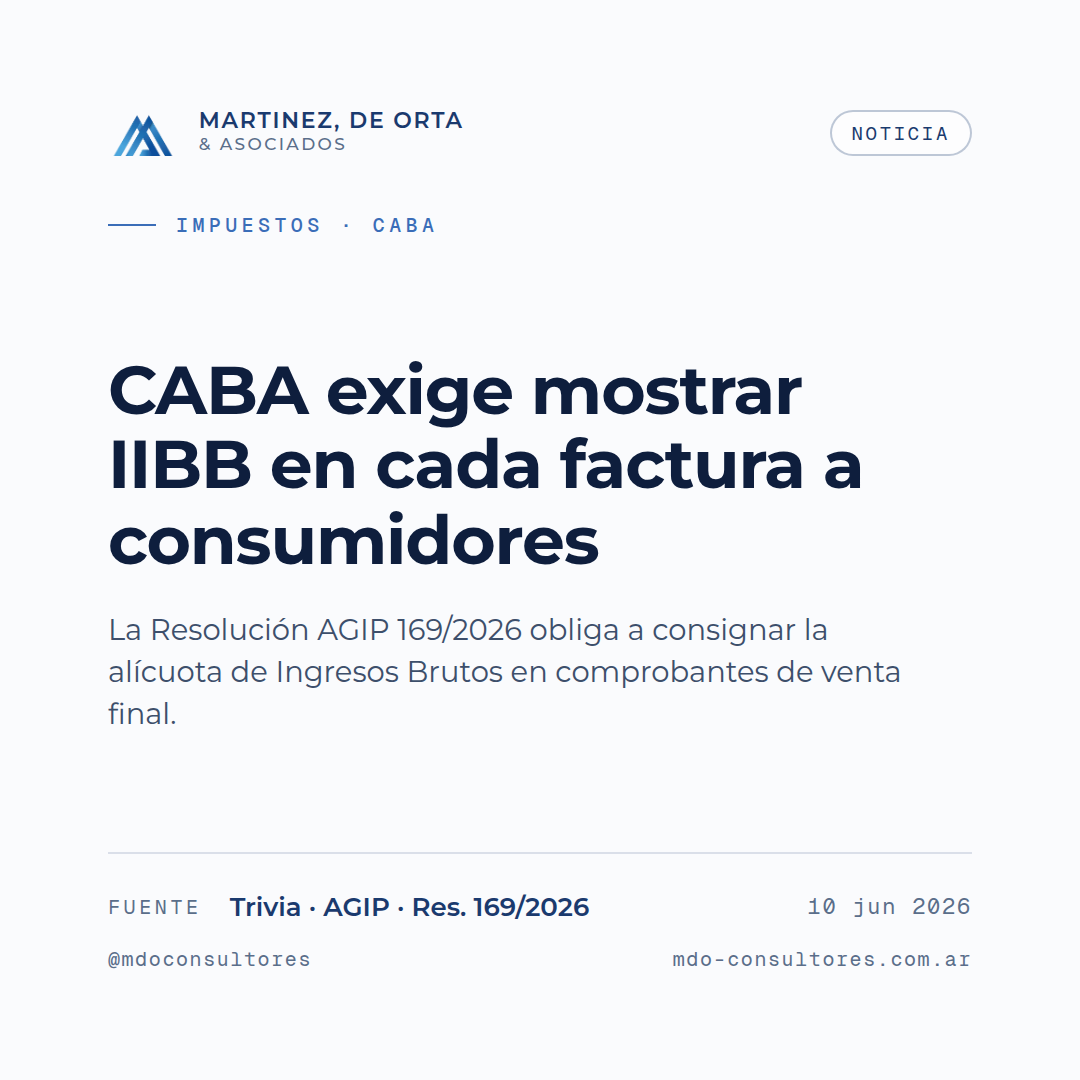
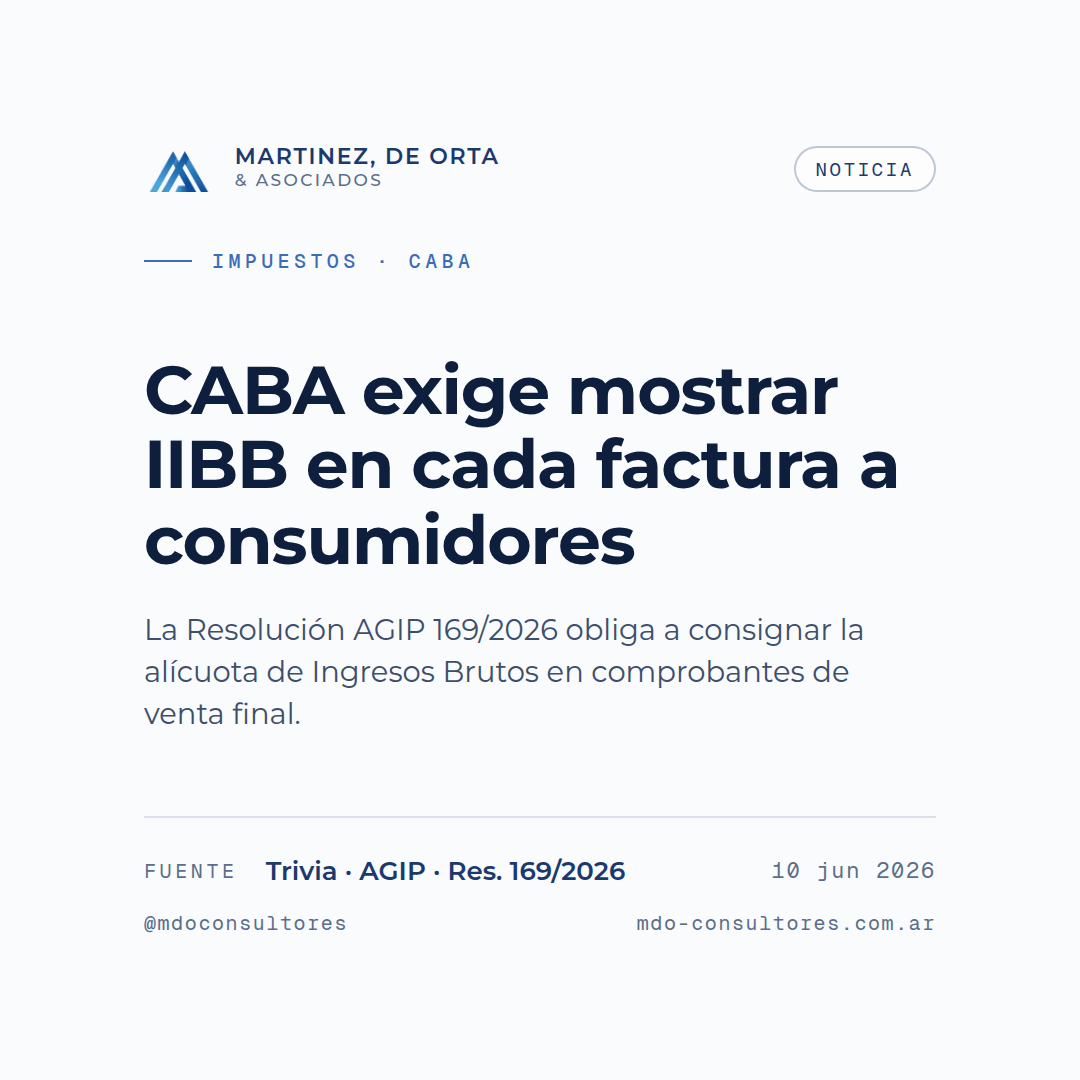
templates: aumenta margenes de feed (sq-12, po-04, po-16) + verificacion visual en skill

diff --git a/mdo-templates/templates-portrait.jsx b/mdo-templates/templates-portrait.jsx
@@ -23,7 +23,7 @@ function PoServicio(props) {
   const bullets = [p.bullet_1, p.bullet_2, p.bullet_3, p.bullet_4].filter(Boolean);
 
   return (
-    <div className="tpl" style={{ padding: 54, display: 'flex', flexDirection: 'column', background: 'var(--paper-warm)' }}>
+    <div className="tpl" style={{ padding: 68, display: 'flex', flexDirection: 'column', background: 'var(--paper-warm)' }}>
       <div style={{ display: 'flex', justifyContent: 'space-between', alignItems: 'center' }}>
         <Lockup size={26} />
         <div className="mono">{p.copete}</div>
@@ -223,7 +223,7 @@ function PoServicioSpotlight(props) {
   }, props);
 
   return (
-    <div className="tpl navy" style={{ padding: 40, display: 'flex', flexDirection: 'column', position: 'relative' }}>
+    <div className="tpl navy" style={{ padding: 64, display: 'flex', flexDirection: 'column', position: 'relative' }}>
       <IsoWatermark mode="light" size={420} opacity={0.07}
         style={{ position: 'absolute', right: -120, bottom: -80 }} />
 

diff --git a/mdo-templates/templates-news.jsx b/mdo-templates/templates-news.jsx
@@ -24,7 +24,7 @@ function SqNoticia(props) {
   }, props);
 
   return (
-    <div className="tpl" style={{ padding: 54, display: 'flex', flexDirection: 'column',
+    <div className="tpl" style={{ padding: 72, display: 'flex', flexDirection: 'column',
       background: 'var(--paper-warm)', position: 'relative' }}>
 
       {/* Header */}

diff --git a/.claude/skills/mdo-rutina-semanal/SKILL.md b/.claude/skills/mdo-rutina-semanal/SKILL.md
@@ -226,11 +226,21 @@ Templates por día:
 - Jueves (story): `--template st-09`
 - Jueves (carrusel): renderizar cada slide con su template (`cb-cover`, `cb-tip1`, etc.)
 - Viernes: `--template po-04`
+- Sábado (solo semanas pares): `--template po-16`
 
 Nombrado: `posts/YYYY-MM-DD-N.png` donde:
 - `YYYY-MM-DD` = fecha de publicación
-- `N` = 1 (lunes), 2 (miércoles), 3 (jueves), 4 (viernes)
+- `N` = 1 (lunes), 2 (miércoles), 3 (jueves), 4 (viernes), 5 (sábado)
 - Carrusel del jueves: `posts/YYYY-MM-DD-3-cover.png`, `posts/YYYY-MM-DD-3-s1.png`, etc.
+
+⚠ **VERIFICACIÓN VISUAL OBLIGATORIA — antes de crear cualquier draft**:
+
+Después de renderizar, **abrir cada PNG y mirarlo** (tool Read sobre el archivo). NO crear el draft en Metricool sin haber visto la imagen. Chequear:
+- El texto NO se sale ni se corta en ningún borde.
+- El titular entra completo (en `st-09` los titulares son cortísimos, ver constraint).
+- Hay margen de seguridad amplio en los 4 bordes → **Instagram recorta los bordes en la grilla del feed**, así que el contenido pegado al margen se ve cortado en el perfil aunque el PNG esté bien. Los templates ya usan padding generoso (`sq-12`=72, `po-04`=68, `po-16`=64 sobre base 540); si se toca un template, mantener ese margen o más.
+
+Si una imagen tiene texto cortado o pegado al borde, **NO crear el draft**: acortar el texto o ajustar el template y volver a renderizar. Un post mal renderizado que ya se publicó NO se puede corregir.
 
 ### 5. Commitear y pushear los PNGs a GitHub
 
@@ -246,6 +256,8 @@ URL pública de cada imagen:
 ```
 https://raw.githubusercontent.com/jmartinez-sketch/mdo-automatizaciones-redes/main/posts/YYYY-MM-DD-N.png
 ```
+
+> **Cache busting**: si se **actualiza** un PNG ya referenciado en un draft (ej: corregir márgenes), Metricool tiene cacheada la versión vieja en su CDN. Al llamar `updateScheduledPost`, agregar un query param a la URL (`...-N.png?v=2`) para forzar que Metricool re-descargue la imagen nueva. `raw.githubusercontent.com` ignora el query param y sirve el archivo igual.
 
 ### 6. Crear los drafts en Metricool (4 por semana, 5 en semanas pares)
 
